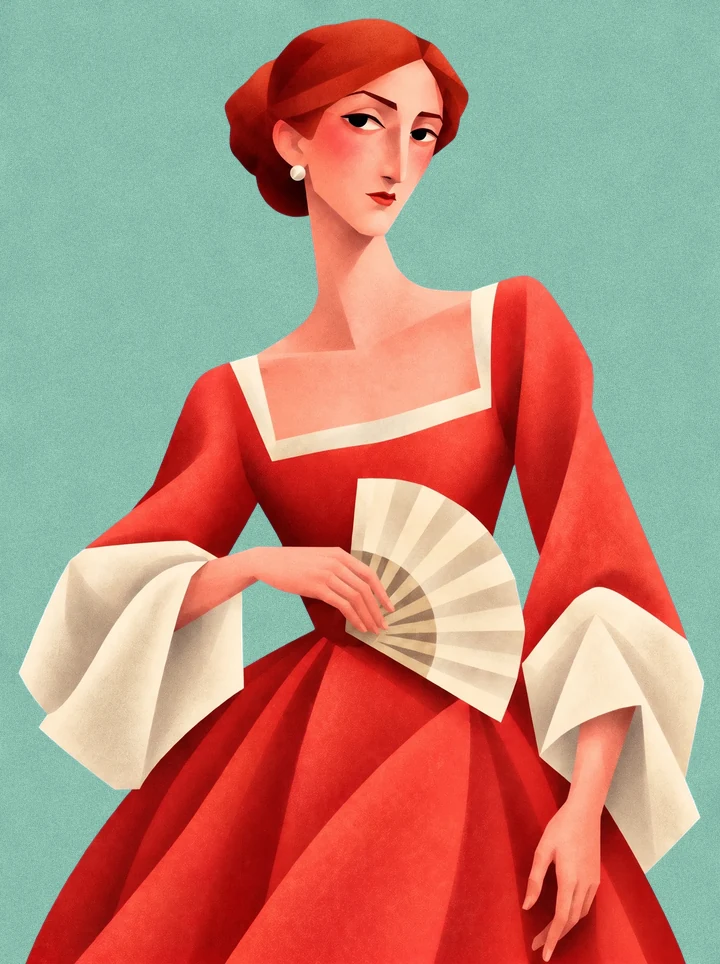
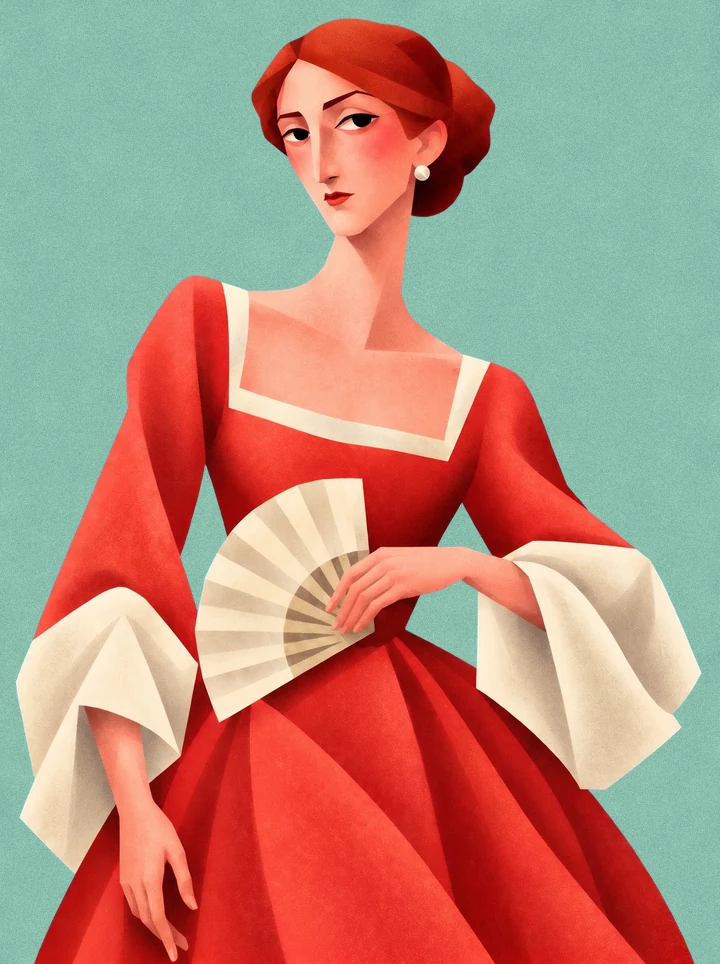
Art: Dorabella mirrored (portrait and face)
Claude-Session: https://claude.ai/code/session_01J9nR1BmP9TjDnKqecdbpyd

diff --git a/scripts/art/build.py b/scripts/art/build.py
@@ -99,6 +99,8 @@ for i, (key, c) in enumerate(chars.items()):
     for k in ('portrait', 'face'):
         fr = next(f for f in frames if kind(f) == k and c[k] in [CUTOUT.get(l[0], l[0]) for l in layers(f)])
         im = render(fr, bg, SIZES[k], seed=i * 7 + (k == 'face'))
+        # mirrored where the picture should face the other way
+        if c.get('flip'): im = im.transpose(Image.FLIP_LEFT_RIGHT)
         im.save(f'{OUT}/{opera}-{ch}-{k}.webp', quality=88, method=6)
     manifest[key] = tones(bg)
 OPF = {'figaro': 'Le nozze di Figaro', 'giovanni': 'Don Giovanni', 'cosi': 'Cosi fan tutte', 'zauberfloete': 'Magic Flute', 'barbiere': 'Barbiere di Sevigla',
